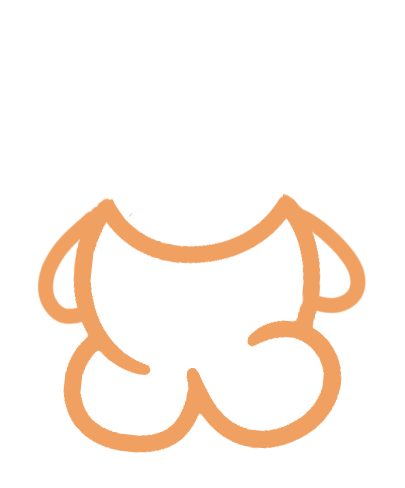
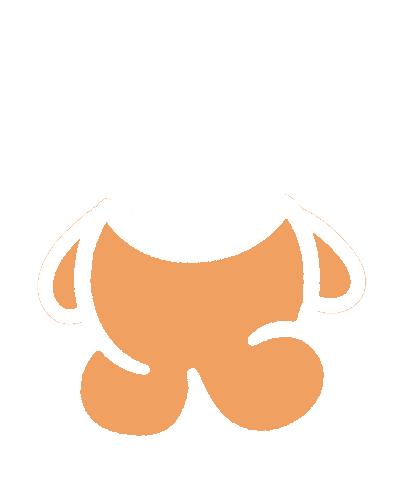
feat: swap walkers to filled body v2 with color variants
Replace outline bodies with walker-body-v2 (purple fill + white
outline, black punched to alpha). Regenerate 8 fill colors; keep
face in U opening, sky card, and walk/tap behavior.

diff --git a/src/components/groups/SkyWalkers.tsx b/src/components/groups/SkyWalkers.tsx
@@ -129,7 +129,7 @@ export function SkyWalkers({
       last = now;
       const width = stage.clientWidth;
       const height = stage.clientHeight;
-      const figureW = 56;
+      const figureW = 58;
       const figureH = 78;
 
       for (const s of stateRef.current) {
@@ -226,7 +226,7 @@ export function SkyWalkers({
                 key={u.id}
                 data-walker-id={u.id}
                 className="absolute left-0 top-0 z-[1] will-change-transform"
-                style={{ width: 56 }}
+                style={{ width: 58 }}
               >
                 <button
                   type="button"
@@ -244,8 +244,8 @@ export function SkyWalkers({
                     </span>
                   ) : null}
 
-                  <div data-figure className="relative h-[72px] w-[56px]">
-                    {/* Body outline (face sits in the U opening) */}
+                  <div data-figure className="relative h-[76px] w-[58px]">
+                    {/* Filled body (v2) — face sits in the U opening */}
                     {/* eslint-disable-next-line @next/next/no-img-element */}
                     <img
                       src={bodyUrl(i)}
@@ -253,14 +253,14 @@ export function SkyWalkers({
                       className="pointer-events-none absolute inset-0 h-full w-full object-contain"
                       draggable={false}
                     />
-                    {/* Face in neck opening */}
+                    {/* Face nested in neck opening */}
                     {/* eslint-disable-next-line @next/next/no-img-element */}
                     <img
                       src={avatarUrl(u.id, i)}
                       alt=""
-                      width={30}
-                      height={30}
-                      className="pointer-events-none absolute left-1/2 top-[2px] z-10 h-[30px] w-[30px] -translate-x-1/2 rounded-full bg-white object-cover"
+                      width={28}
+                      height={28}
+                      className="pointer-events-none absolute left-1/2 top-[4px] z-10 h-[28px] w-[28px] -translate-x-1/2 rounded-full bg-white object-cover ring-1 ring-white/80"
                       draggable={false}
                     />
                   </div>
